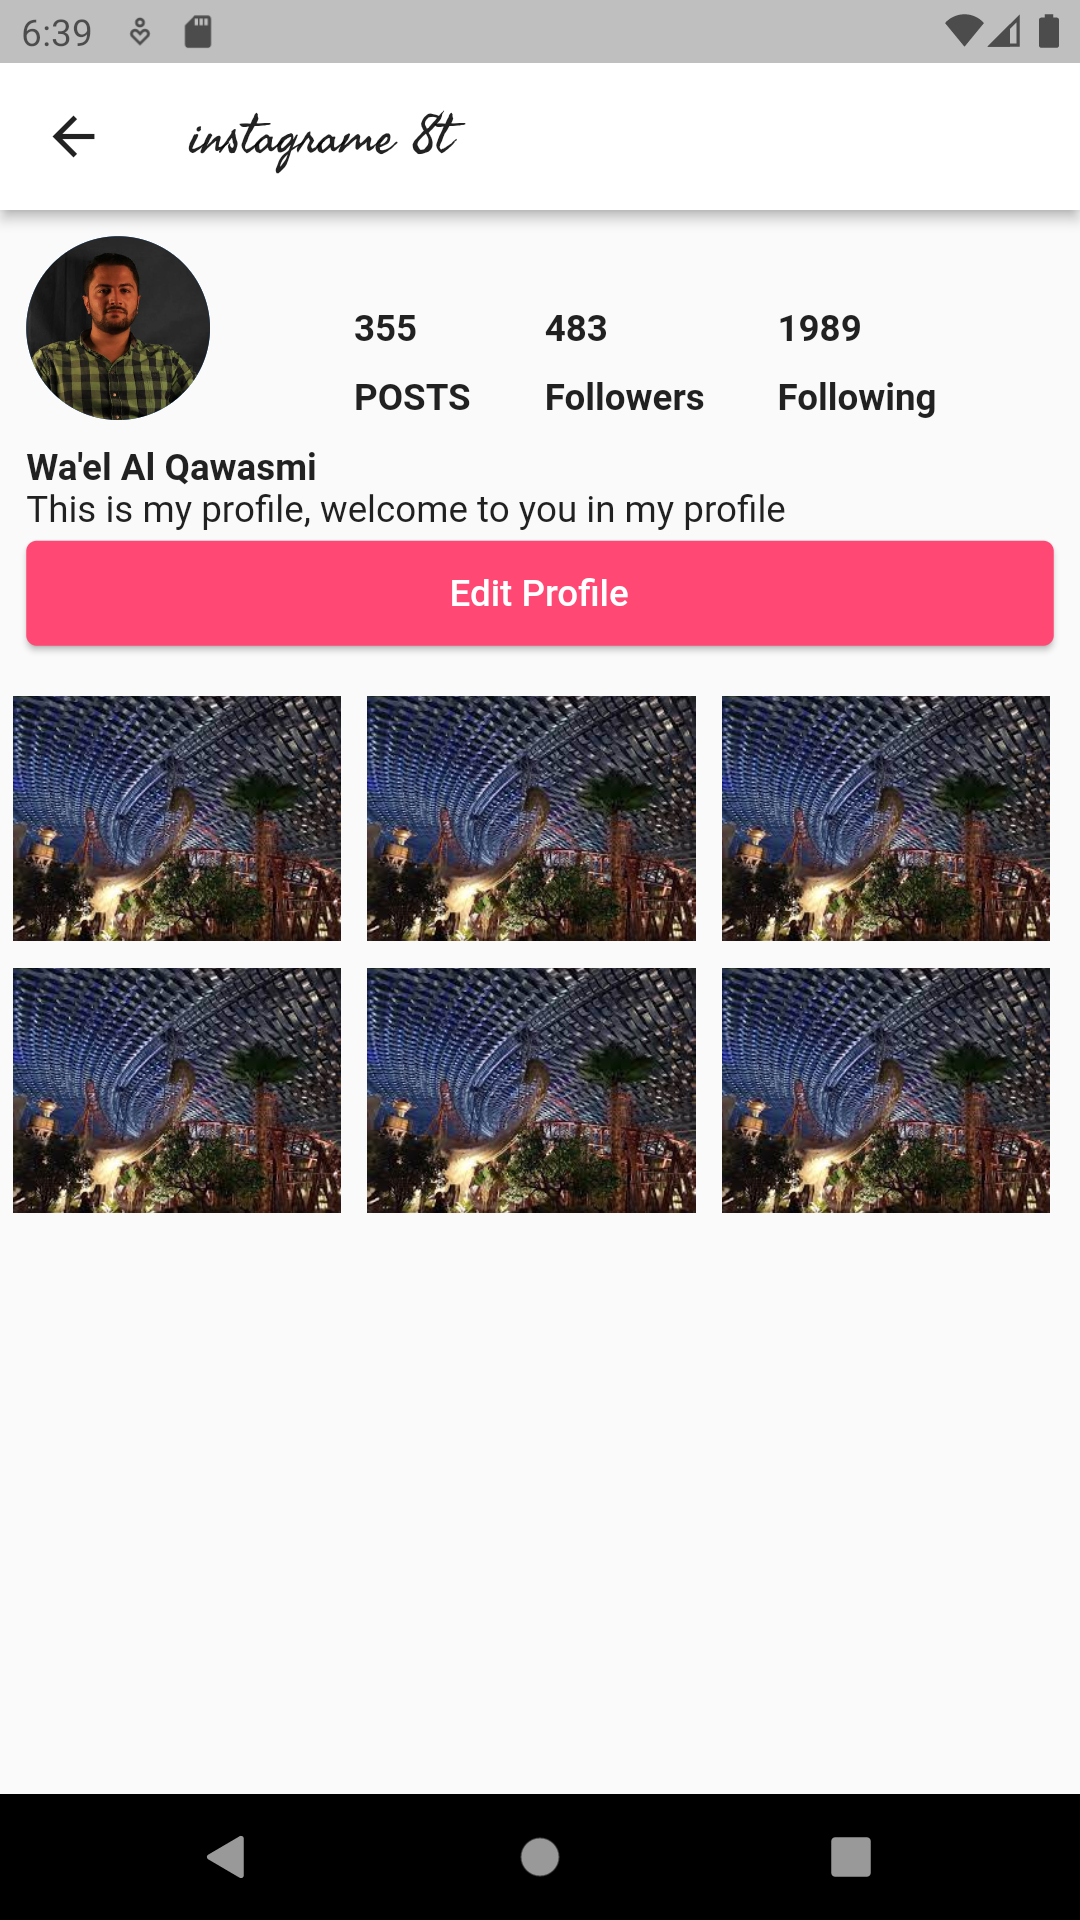
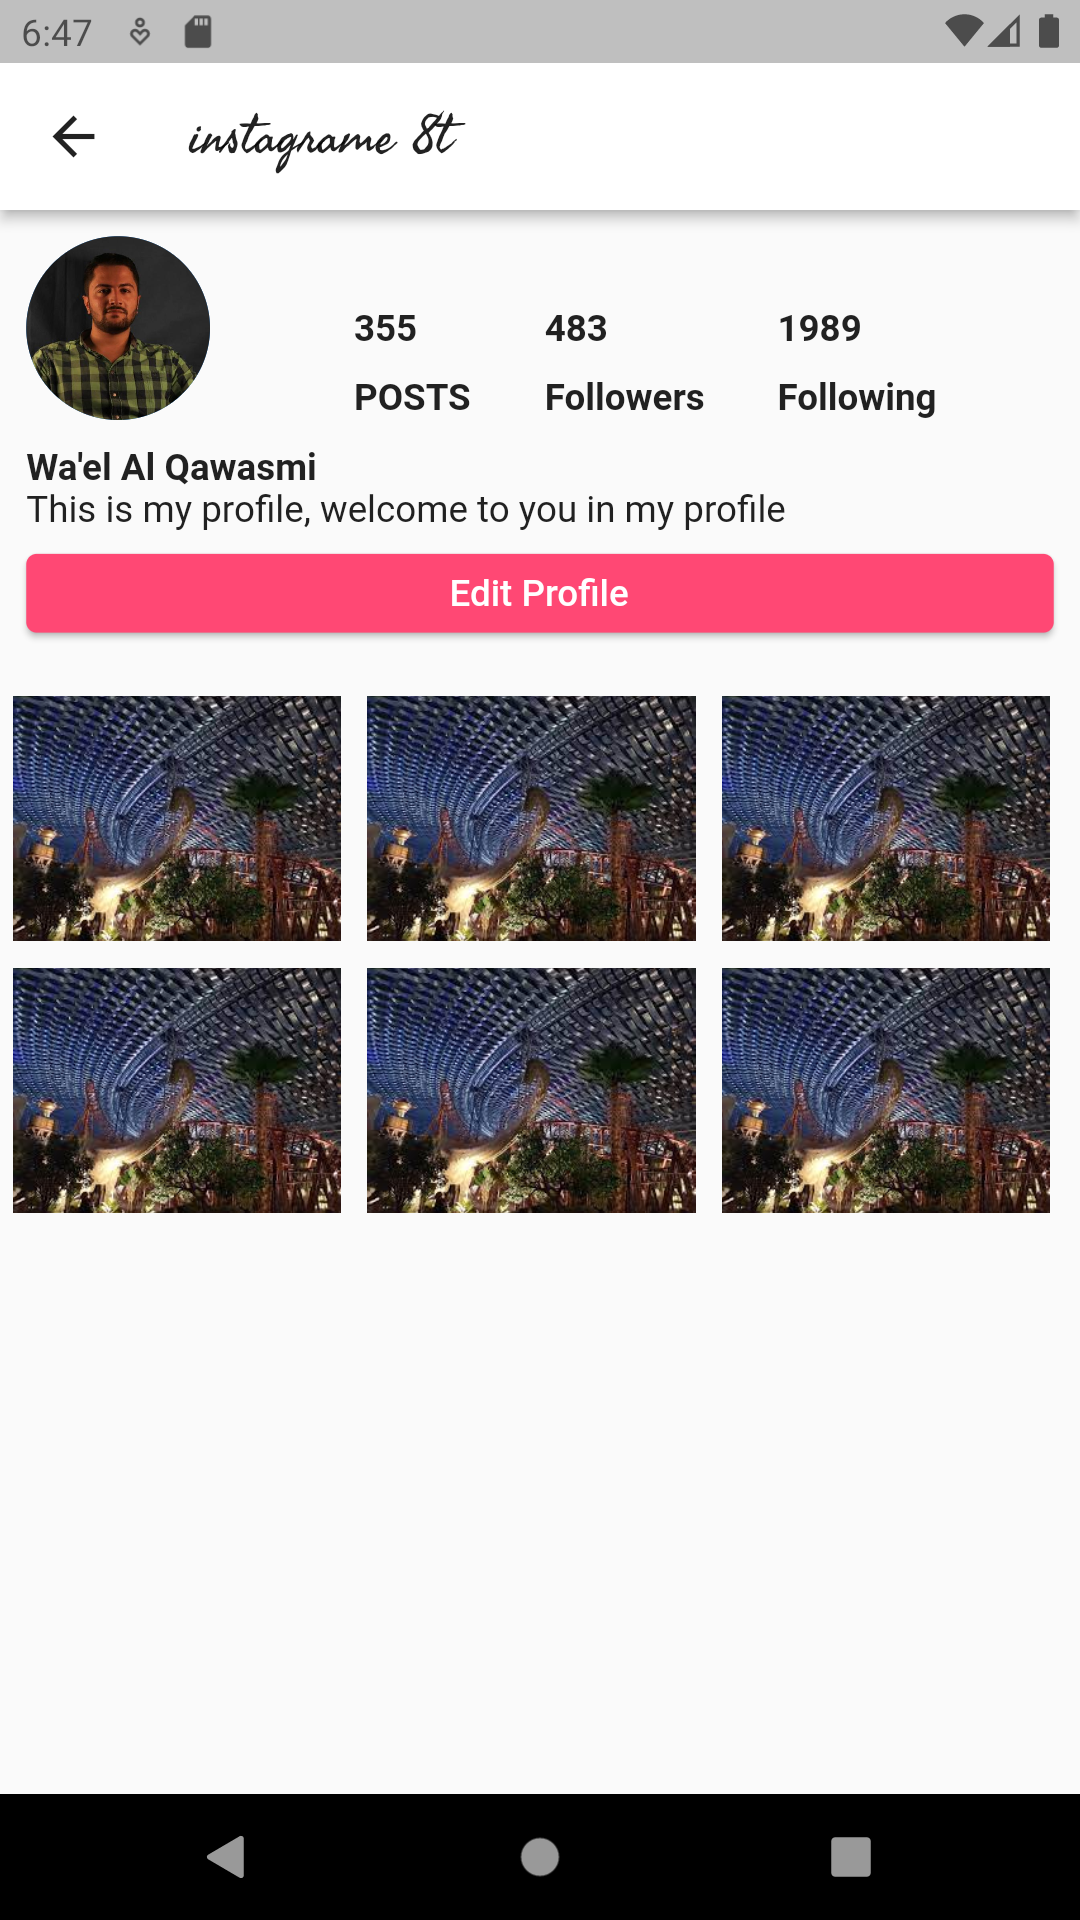
bulid chat, update profil,and fix bugs

Changed region(s): [[0.0306, 0.2812, 0.9778, 0.3438], [0.0306, 0.0, 0.0917, 0.0312]]

diff --git a/lib/secreens/instaProfile.dart b/lib/secreens/instaProfile.dart
@@ -112,7 +112,7 @@ class _instaProfileState extends State<instaProfile> {
                 ),
                 Container(alignment: Alignment.topLeft,
                   child: Text("This is my profile, welcome to you in my profile"),),
-                ElevatedButton(onPressed: (){}, child: Text("Edit Profile"),style: ElevatedButton.styleFrom(minimumSize: Size.fromHeight(40),),)
+                ElevatedButton(onPressed: (){}, child: Text("Edit Profile"),style: ElevatedButton.styleFrom(minimumSize: Size.fromHeight(30),),)
               ],
             ),
           ),
